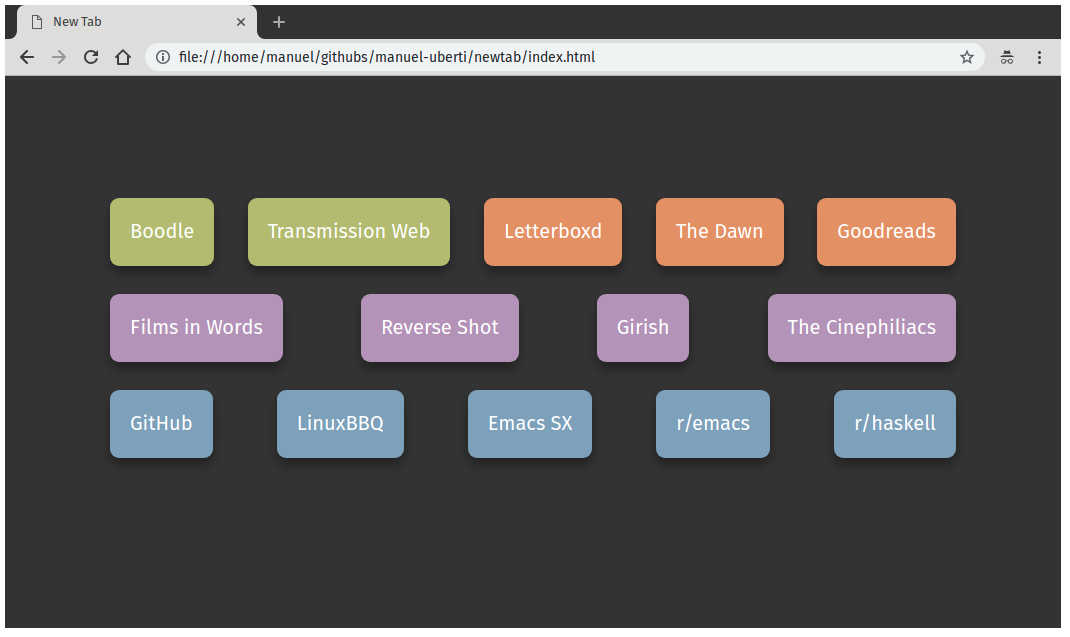
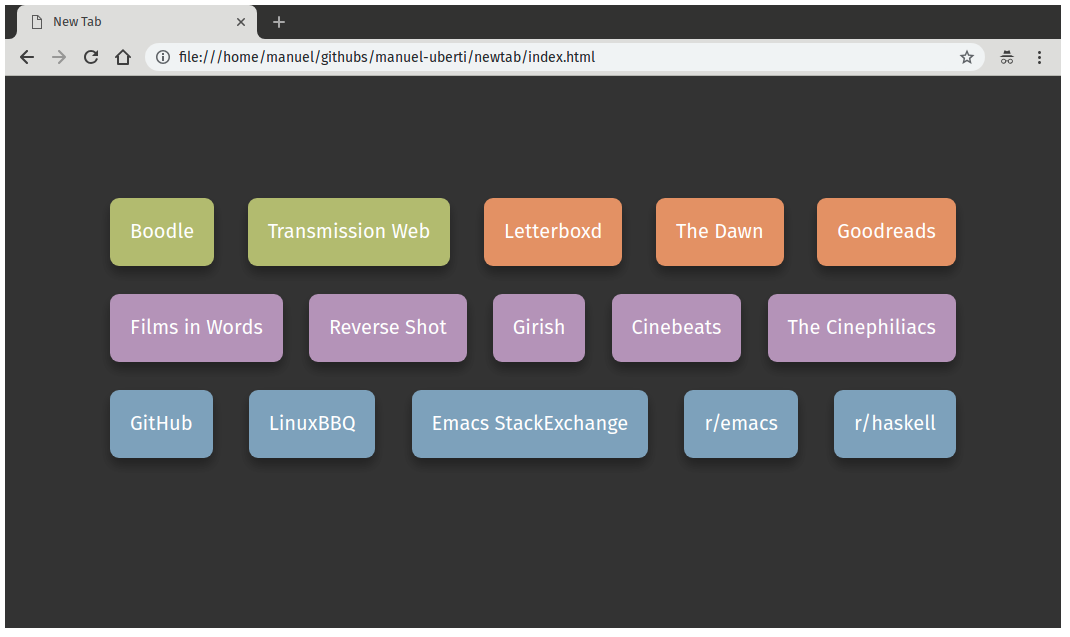
Add link and update screenshot

Changed region(s): [[0.2159, 0.5965, 0.771, 0.7457], [0.2776, 0.4474, 0.7093, 0.5667]]

diff --git a/index.html b/index.html
@@ -50,6 +50,11 @@
                     Girish
                 </a>
                 <a class="button-purple"
+                   href="https://cinebeats.wordpress.com"
+                   target="_blank">
+                    Cinebeats
+                </a>
+                <a class="button-purple"
                    href="http://www.thecinephiliacs.net"
                    target="_blank">
                     The Cinephiliacs
@@ -69,7 +74,7 @@
                 <a class="button-blue"
                    href="https://emacs.stackexchange.com/"
                    target="_blank">
-                    Emacs SX
+                    Emacs StackExchange
                 </a>
                 <a class="button-blue"
                    href="https://www.reddit.com/r/emacs/"
